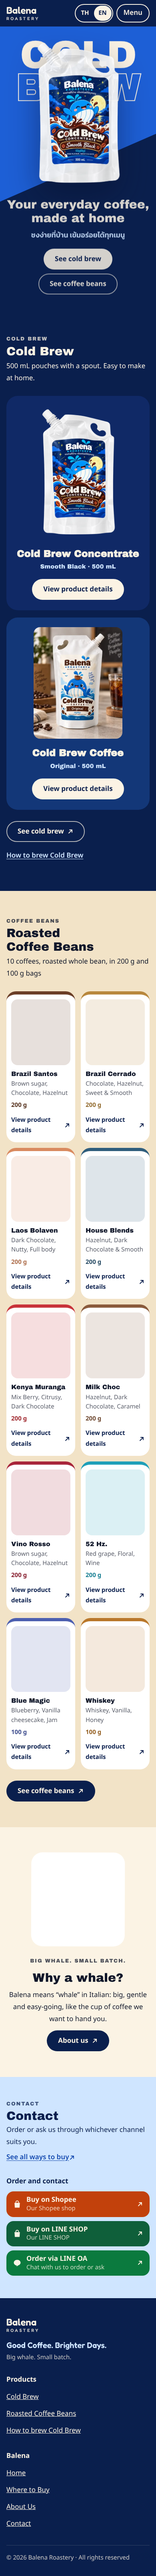
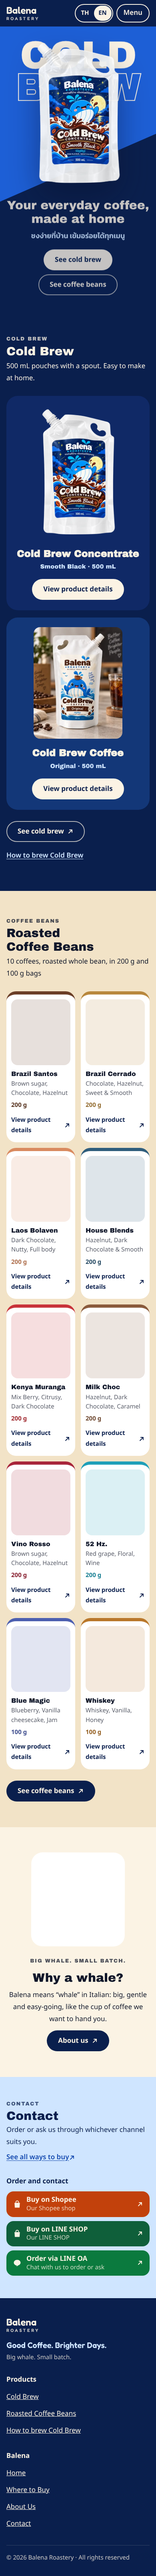
/shop: simple grouped link list, like a link-in-bio page
Following the owner's reference, /shop is now one narrow column:
- round mascot avatar, wordmark, title and the two intro lines;
- full-width rows (colour icon tile, centred name and short
  description, arrow) grouped under "สั่งซื้อและติดต่อ / Shop & chat"
  and "เดลิเวอรี / Delivery";
- a share (copy link) button in the corner.

Groups and order live in SHOP_HUB. Facebook and Lazada rows appear by
themselves once their URLs are set. The page's list is its #contact,
so the footer contact band isn't repeated there. Links, copy behaviour
and translations are unchanged; check:site follows the new markup.

Claude-Session: https://claude.ai/code/session_01NhFLDnAE3nR7iToKXbduQe

Changed region(s): [[0.2462, 0.0312, 0.8, 0.1247]]

diff --git a/src/shop/shop.css b/src/shop/shop.css
@@ -311,46 +311,48 @@ button, input, textarea { font: inherit; color: inherit; }
 .lang-en .h-th { font-family: var(--display-en); font-weight: 400; line-height: 1.12; }
 .lang-en .make__card h3 { font-family: var(--display-en); font-weight: 400; line-height: 1.2; }
 
-/* ---------- /shop: every channel on one page ---------- */
+/* ---------- /shop: every channel on one page (a link list, like a link-in-bio page) ---------- */
 
-.hub { background: linear-gradient(180deg, var(--ocean) 0, var(--ocean-deep) 260px, var(--navy) 560px, var(--navy) 100%); color: var(--cream); padding: 32px var(--gutter-r) 56px var(--gutter); }
-.hub__intro { max-width: 640px; margin: 0 auto; display: grid; justify-items: center; text-align: center; gap: 8px; }
-.hub__brand { display: grid; justify-items: center; gap: 10px; }
-.hub__mascot { width: 112px; height: 112px; border-radius: 28px; background: var(--white); padding: 6px; box-shadow: 0 16px 30px rgb(4 14 40 / .35); }
-.hub__title { font-family: var(--display-th); font-weight: 800; font-size: clamp(32px, 7vw, 52px); line-height: 1.3; padding-top: .08em; margin-top: 10px; text-wrap: balance; }
+.hub { background: linear-gradient(180deg, var(--ocean) 0, var(--ocean-deep) 220px, var(--navy) 520px); color: var(--cream); padding: 28px var(--gutter-r) 64px var(--gutter); }
+.hub__in { max-width: 560px; margin: 0 auto; }
+.hub__profile { position: relative; display: grid; justify-items: center; text-align: center; gap: 6px; padding-top: 8px; }
+.hub__avatar { width: 116px; height: 116px; border-radius: 50%; object-fit: cover; background: var(--white); border: 4px solid var(--cream); box-shadow: 0 14px 30px rgb(4 14 40 / .35); margin-bottom: 6px; }
+.hub__title { font-family: var(--display-th); font-weight: 800; font-size: clamp(30px, 7vw, 44px); line-height: 1.3; padding-top: .08em; margin-top: 8px; text-wrap: balance; }
 .lang-en .hub__title { font-family: var(--display-en); font-weight: 400; line-height: 1.1; }
-.hub__lead { font-weight: 700; font-size: 20px; line-height: 1.6; color: var(--spray); }
-.hub__text { max-width: 30em; }
+.hub__lead { font-weight: 700; font-size: 19px; line-height: 1.6; color: var(--spray); text-wrap: balance; }
+.hub__text { font-size: 17px; opacity: .9; text-wrap: balance; }
 
-.hub__cards { max-width: 980px; margin: 32px auto 0; display: grid; gap: 14px; }
-@media (min-width: 760px) {
-  .hub__cards { grid-template-columns: repeat(2, minmax(0, 1fr)); gap: 18px; }
-  .hub-card:last-child:nth-child(odd) { grid-column: 1 / -1; }
-}
-.hub-card__link { display: grid; grid-template-columns: auto minmax(0, 1fr); gap: 4px 16px; height: 100%; padding: 18px; border-radius: 24px; background: var(--cream); color: var(--ink); text-decoration: none; border: 2px solid transparent; box-shadow: 0 10px 24px rgb(4 14 40 / .25); transition: transform .18s ease, box-shadow .18s ease, border-color .18s ease; }
-.hub-card__link:hover { transform: translateY(-3px); box-shadow: 0 18px 36px rgb(4 14 40 / .35); border-color: var(--spray); }
-.hub-card__link:active { transform: translateY(0) scale(.99); }
-.hub-card__link:focus-visible { outline: 3px solid var(--spray); outline-offset: 4px; }
-@media (prefers-reduced-motion: reduce) { .hub-card__link, .hub-card__link:hover, .hub-card__link:active { transform: none; transition: none; } }
-.hub-card__icon { width: 52px; height: 52px; border-radius: 16px; display: grid; place-items: center; color: var(--white); background: var(--ocean); grid-row: span 2; }
-.hub-card.is-shopee .hub-card__icon { background: #c2410c; }
-.hub-card.is-lineShop .hub-card__icon, .hub-card.is-lineOA .hub-card__icon { background: #0b7a3e; }
-.hub-card.is-website .hub-card__icon { background: var(--navy); }
-.hub-card.is-grab .hub-card__icon { background: #00754a; }
-.hub-card__body { display: grid; gap: 2px; min-width: 0; }
-.hub-card__tag { font-size: 15px; font-weight: 700; color: var(--muted); }
-.hub-card__title { font-family: var(--display-th); font-weight: 800; font-size: 22px; line-height: 1.4; color: var(--navy); overflow-wrap: anywhere; }
-.hub-card__title[lang="en"] { font-family: var(--display-en); font-weight: 400; line-height: 1.25; }
-.hub-card__desc { line-height: 1.7; }
-.hub-card__note { font-size: 15px; color: var(--muted); }
-.hub-card__btn { grid-column: 1 / -1; justify-self: start; margin-top: 12px; display: inline-flex; align-items: center; gap: 8px; min-height: 48px; padding: 8px 20px; border-radius: 999px; background: var(--navy); color: var(--cream); font-weight: 700; }
-.hub-card.is-shopee .hub-card__btn { background: #c2410c; }
-.hub-card.is-lineShop .hub-card__btn, .hub-card.is-lineOA .hub-card__btn { background: #0b7a3e; }
-.hub-card.is-grab .hub-card__btn { background: #00754a; }
-
-.hub__share { max-width: 640px; margin: 36px auto 0; display: grid; justify-items: center; gap: 10px; text-align: center; }
-.hub__share .btn--navy { background: var(--cream); color: var(--navy); }
-.hub__status { min-height: 1.7em; font-weight: 600; }
+.hub__share { position: absolute; top: 0; right: 0; display: grid; justify-items: end; gap: 4px; max-width: 60%; }
+.hub__share-btn { width: 48px; height: 48px; border-radius: 16px; border: 0; background: rgb(251 243 228 / .16); color: var(--cream); display: grid; place-items: center; cursor: pointer; transition: background-color .15s ease; }
+.hub__share-btn:hover { background: rgb(251 243 228 / .28); }
+.hub__share-btn:focus-visible { outline: 3px solid var(--spray); outline-offset: 3px; }
+.hub__share-label { position: absolute; width: 1px; height: 1px; overflow: hidden; clip: rect(0 0 0 0); white-space: nowrap; }
+.hub__status { font-size: 15px; font-weight: 600; text-align: right; line-height: 1.5; }
+.hub__status:empty { display: none; }
 .hub__status.is-done { color: #9ff0c8; }
-.hub__status.is-failed { color: #ffd7a8; }
-.hub__url { color: var(--spray); word-break: break-all; user-select: all; }
+.hub__status.is-failed { color: #ffd7a8; background: var(--navy); padding: 6px 10px; border-radius: 12px; }
+.hub__url { color: var(--spray); font-size: 15px; word-break: break-all; user-select: all; background: var(--navy); padding: 4px 10px; border-radius: 10px; min-height: 44px; display: inline-flex; align-items: center; }
+
+.hub__groups { display: grid; gap: 28px; margin-top: 30px; scroll-margin-top: 84px; }
+.hub__group-h { text-align: center; font-family: var(--display-th); font-weight: 800; font-size: 20px; line-height: 1.4; color: var(--cream); margin-bottom: 12px; }
+.lang-en .hub__group-h { font-family: var(--display-en); font-weight: 400; }
+.hub__rows { display: grid; gap: 12px; }
+.hub-row__link { display: grid; grid-template-columns: 56px minmax(0, 1fr) 40px; align-items: center; gap: 14px; min-height: 76px; padding: 10px 12px 10px 10px; border-radius: 20px; background: var(--cream); color: var(--ink); text-decoration: none; border: 2px solid transparent; box-shadow: 0 8px 20px rgb(4 14 40 / .22); transition: transform .16s ease, box-shadow .16s ease, border-color .16s ease; }
+.hub-row__link:hover { transform: translateY(-2px); box-shadow: 0 14px 30px rgb(4 14 40 / .32); border-color: var(--spray); }
+.hub-row__link:active { transform: scale(.985); }
+.hub-row__link:focus-visible { outline: 3px solid var(--spray); outline-offset: 3px; }
+@media (prefers-reduced-motion: reduce) { .hub-row__link, .hub-row__link:hover, .hub-row__link:active { transform: none; transition: none; } }
+.hub-row__icon { width: 56px; height: 56px; border-radius: 14px; display: grid; place-items: center; color: var(--white); background: var(--ocean); }
+.hub-row.is-shopee .hub-row__icon { background: #c2410c; }
+.hub-row.is-lazada .hub-row__icon { background: #1e2a78; }
+.hub-row.is-lineShop .hub-row__icon { background: #0f5f3a; }
+.hub-row.is-lineOA .hub-row__icon { background: #0b7a3e; }
+.hub-row.is-facebook .hub-row__icon { background: #1d4fb8; }
+.hub-row.is-website .hub-row__icon { background: var(--navy); }
+.hub-row.is-grab .hub-row__icon { background: #00754a; }
+.hub-row__text { display: grid; justify-items: center; text-align: center; min-width: 0; }
+.hub-row__title { font-family: var(--display-th); font-weight: 800; font-size: 19px; line-height: 1.4; color: var(--navy); overflow-wrap: anywhere; }
+.hub-row__title[lang="en"] { font-family: var(--display-en); font-weight: 400; line-height: 1.3; }
+.hub-row__desc { font-size: 15px; line-height: 1.55; color: #3f4352; }
+.hub-row__note { font-size: 15px; line-height: 1.5; color: var(--muted); }
+.hub-row__go { width: 40px; height: 40px; border-radius: 50%; display: grid; place-items: center; color: var(--navy); background: rgb(10 31 77 / .08); }

diff --git a/src/shop/ShopPage.tsx b/src/shop/ShopPage.tsx
@@ -7,10 +7,10 @@ import { Arrow, Shell, Wordmark, useText } from "./ui";
 /** The address the copy button shares: always production, never a preview URL. */
 export const SHOP_URL = `${site.url}/shop`;
 
-type Card = (typeof SHOP_HUB)[number];
-const TAG: Record<Card, "shop" | "chat" | "site" | "delivery"> = {
-  shopee: "shop", lineShop: "shop", lineOA: "chat", website: "site", grab: "delivery",
-  facebook: "chat", lazada: "shop",
+type Item = (typeof SHOP_HUB)[number]["items"][number];
+type Kind = "shop" | "chat" | "site" | "delivery";
+const KIND: Record<Item, Kind> = {
+  shopee: "shop", lineShop: "shop", lazada: "shop", lineOA: "chat", facebook: "chat", website: "site", grab: "delivery",
 };
 
 /** /shop: every shopping and contact channel on one page, for social posts and QR codes. */
@@ -25,50 +25,58 @@ export function ShopPage() {
 function ShopBody() {
   const t = useText();
   const h = t.hub;
-  // Only channels with a real link get a card; the website card is this site's home page.
-  const cards = SHOP_HUB.flatMap((id): { id: Card; href: string; external: boolean }[] => {
-    if (id === "website") return [{ id, href: "/", external: false }];
-    const href = storeLink(id);
-    return href ? [{ id, href, external: true }] : [];
-  });
+  // Only channels with a real link get a row; the website row is this site's home page.
+  const groups = SHOP_HUB.map(({ group, items }) => ({
+    group,
+    rows: items.flatMap((id): { id: Item; href: string; external: boolean }[] => {
+      if (id === "website") return [{ id, href: "/", external: false }];
+      const href = storeLink(id);
+      return href ? [{ id, href, external: true }] : [];
+    }),
+  })).filter((g) => g.rows.length > 0);
 
   return (
     <div className="hub">
-      <section className="hub__intro" aria-labelledby="hub-title">
-        <div className="hub__brand">
-          <img className="hub__mascot" src="/images/balena-whale-sticker.webp" width={1254} height={1254}
+      <div className="hub__in">
+        <section className="hub__profile" aria-labelledby="hub-title">
+          <CopyLink />
+          <img className="hub__avatar" src="/images/balena-whale-sticker.webp" width={1254} height={1254}
             alt={h.mascotAlt} decoding="async" fetchPriority="high" />
           <Wordmark light />
+          <h1 id="hub-title" className="hub__title">{h.title}</h1>
+          <p className="hub__lead">{h.lead}</p>
+          <p className="hub__text">{h.text}</p>
+        </section>
+
+        <div id="contact" className="hub__groups">
+          {groups.map((g) => (
+            <section key={g.group} className="hub__group" aria-labelledby={`hub-${g.group}`}>
+              <h2 id={`hub-${g.group}`} className="hub__group-h">{h.groups[g.group]}</h2>
+              <ul className="hub__rows">
+                {g.rows.map((r) => {
+                  const row = h.cards[r.id];
+                  const note = r.id === "lineOA" || r.id === "lineShop" ? h.opensIn.line : r.id === "grab" ? h.opensIn.grab : null;
+                  return (
+                    <li key={r.id} className={`hub-row is-${r.id}`}>
+                      <a className="hub-row__link" href={r.href}
+                        {...(r.external ? { target: "_blank", rel: "noopener noreferrer" } : {})}
+                        aria-label={`${row.button}: ${row.title}${r.external ? ` (${t.common.newTab})` : ""}`}>
+                        <span className="hub-row__icon" aria-hidden="true"><HubIcon kind={KIND[r.id]} /></span>
+                        <span className="hub-row__text">
+                          <span className="hub-row__title" lang={/[\u0E00-\u0E7F]/.test(row.title) ? "th" : "en"}>{row.title}</span>
+                          <span className="hub-row__desc">{row.description}</span>
+                          {note && <span className="hub-row__note">{note}</span>}
+                        </span>
+                        <span className="hub-row__go" aria-hidden="true"><Arrow /></span>
+                      </a>
+                    </li>
+                  );
+                })}
+              </ul>
+            </section>
+          ))}
         </div>
-        <h1 id="hub-title" className="hub__title">{h.title}</h1>
-        <p className="hub__lead">{h.lead}</p>
-        <p className="hub__text">{h.text}</p>
-      </section>
-
-      <ul className="hub__cards" aria-label={h.listLabel}>
-        {cards.map((c) => {
-          const card = h.cards[c.id as keyof typeof h.cards];
-          const opens = c.id === "lineOA" || c.id === "lineShop" ? h.opensIn.line : c.id === "grab" ? h.opensIn.grab : null;
-          return (
-            <li key={c.id} className={`hub-card is-${c.id}`}>
-              <a className="hub-card__link" href={c.href}
-                {...(c.external ? { target: "_blank", rel: "noopener noreferrer" } : {})}
-                aria-label={`${card.button}: ${card.title}${c.external ? ` (${t.common.newTab})` : ""}`}>
-                <span className="hub-card__icon" aria-hidden="true"><HubIcon kind={TAG[c.id]} /></span>
-                <span className="hub-card__body">
-                  <span className="hub-card__tag">{h.tags[TAG[c.id]]}</span>
-                  <span className="hub-card__title" lang={/[\u0E00-\u0E7F]/.test(card.title) ? "th" : "en"}>{card.title}</span>
-                  <span className="hub-card__desc">{card.description}</span>
-                  {opens && <span className="hub-card__note">{opens}</span>}
-                </span>
-                <span className="hub-card__btn">{card.button} <Arrow /></span>
-              </a>
-            </li>
-          );
-        })}
-      </ul>
-
-      <CopyLink />
+      </div>
     </div>
   );
 }
@@ -102,16 +110,16 @@ function CopyLink() {
   };
 
   return (
-    <section className="hub__share" aria-label={hub.copy.button}>
-      <p className="hub__share-hint">{hub.copy.hint}</p>
-      <button type="button" className="btn btn--navy" onClick={copy}>
-        <CopyIcon /> {hub.copy.button}
+    <div className="hub__share">
+      <button type="button" className="hub__share-btn" onClick={copy} aria-label={hub.copy.button} title={hub.copy.button}>
+        <CopyIcon />
+        <span className="hub__share-label">{hub.copy.button}</span>
       </button>
       <p className={`hub__status is-${state}`} role="status" aria-live="polite">
         {state === "done" ? hub.copy.done : state === "failed" ? hub.copy.failed : ""}
       </p>
       {state === "failed" && <a className="hub__url" href={SHOP_URL} lang="en">{SHOP_URL}</a>}
-    </section>
+    </div>
   );
 }
 

diff --git a/src/i18n/shop.ts b/src/i18n/shop.ts
@@ -149,7 +149,6 @@ const th = {
     title: "เลือกช่องทางสั่งซื้อ",
     lead: "กาแฟแก้วโปรด สั่งได้ในช่องทางที่คุณสะดวก",
     text: "เลือกซื้อโคลด์บรูว์และเมล็ดกาแฟ หรือทักมาคุยกับเราได้เลย",
-    listLabel: "ช่องทางสั่งซื้อและติดต่อ",
     mascotAlt: "วาฬ Balena มีถ้วยกาแฟบนหัว",
     cards: {
       shopee: { title: "Shopee", description: "เลือกสินค้าและสั่งซื้อผ่าน Shopee", button: "ไปที่ร้าน Shopee" },
@@ -157,14 +156,15 @@ const th = {
       lineOA: { title: "LINE Official Account", description: "สอบถามสินค้า ขอคำแนะนำ หรือทักมาสั่งซื้อ", button: "แชทกับเราทาง LINE" },
       website: { title: "เว็บไซต์ Balena", description: "รู้จัก Balena และดูรายละเอียดสินค้าของเรา", button: "เยี่ยมชมเว็บไซต์" },
       grab: { title: "Grab Delivery — สาขาบางใหญ่", description: "ตรวจสอบพื้นที่จัดส่ง เมนู และเวลาเปิดให้บริการในแอป Grab", button: "เปิดร้านบน Grab" },
+      lazada: { title: "Lazada", description: "เลือกสินค้าและสั่งซื้อผ่าน Lazada", button: "ไปที่ร้าน Lazada" },
+      facebook: { title: "Facebook", description: "ทักแชทมาสอบถามหรือสั่งซื้อทาง Facebook", button: "แชทกับเราทาง Facebook" },
     },
-    tags: { shop: "ร้านค้า", chat: "แชท", site: "เว็บไซต์", delivery: "เดลิเวอรี" },
+    groups: { online: "สั่งซื้อและติดต่อ", delivery: "เดลิเวอรี" },
     opensIn: { line: "เปิดในแอป LINE", grab: "เปิดในแอป Grab" },
     copy: {
       button: "คัดลอกลิงก์หน้านี้",
       done: "คัดลอกลิงก์แล้ว",
       failed: "คัดลอกอัตโนมัติไม่ได้ กดค้างที่ลิงก์ด้านล่างเพื่อคัดลอก",
-      hint: "แชร์หน้านี้ให้เพื่อนได้เลย",
     },
   },
   notFound: {
@@ -321,7 +321,6 @@ const en: ShopText = {
     title: "Shop Balena",
     lead: "Your favourite coffee, ordered your way.",
     text: "Shop cold brew and roasted coffee beans, or chat with us.",
-    listLabel: "Shopping and contact channels",
     mascotAlt: "The Balena whale with a coffee cup on its head",
     cards: {
       shopee: { title: "Shopee", description: "Browse and order on Shopee.", button: "Shop on Shopee" },
@@ -329,14 +328,15 @@ const en: ShopText = {
       lineOA: { title: "LINE Official Account", description: "Ask about products, get recommendations or message us to order.", button: "Chat on LINE" },
       website: { title: "Balena Website", description: "Discover Balena and explore our products.", button: "Visit Our Website" },
       grab: { title: "Grab Delivery — Bang Yai", description: "Check delivery coverage, the menu and opening hours in the Grab app.", button: "Open in Grab" },
+      lazada: { title: "Lazada", description: "Browse and order on Lazada.", button: "Shop on Lazada" },
+      facebook: { title: "Facebook", description: "Message us on Facebook to ask or order.", button: "Chat on Facebook" },
     },
-    tags: { shop: "Shop", chat: "Chat", site: "Website", delivery: "Delivery" },
+    groups: { online: "Shop & chat", delivery: "Delivery" },
     opensIn: { line: "Opens in the LINE app", grab: "Opens in the Grab app" },
     copy: {
       button: "Copy Page Link",
       done: "Link copied",
       failed: "Couldn't copy automatically. Press and hold the link below to copy it.",
-      hint: "Share this page with a friend",
     },
   },
   notFound: {

diff --git a/src/shop/ui.tsx b/src/shop/ui.tsx
@@ -188,11 +188,12 @@ function Contact() {
   );
 }
 
-export function Footer() {
+/** `contact={false}` on /shop, whose own channel list is the #contact section. */
+export function Footer({ contact = true }: { contact?: boolean }) {
   const t = useText();
   return (
     <>
-      <Contact />
+      {contact && <Contact />}
       <footer className="ftr">
         <div className="ftr__in">
           <div className="ftr__brand">
@@ -221,6 +222,7 @@ export function Footer() {
 }
 
 export function Shell({ page, children, tone = "dark" }: { page: Page; children: ReactNode; tone?: "dark" | "light" }) {
+  const contact = page !== "shop";
   const t = useText();
   useDocumentLang(t.lang, t.meta[page]);
   return (
@@ -228,7 +230,7 @@ export function Shell({ page, children, tone = "dark" }: { page: Page; children:
       <a className="skip" href="#main">{t.common.skip}</a>
       <Header page={page} tone={tone} />
       <main id="main">{children}</main>
-      <Footer />
+      <Footer contact={contact} />
     </div>
   );
 }

diff --git a/src/config/purchase-links.ts b/src/config/purchase-links.ts
@@ -26,8 +26,14 @@ export const storeLinks: Record<Channel, string> = {
 /** Channels that sell the products in the catalogue (Grab is a branch menu, so it isn't one). */
 export const PRODUCT_CHANNELS: Channel[] = ["shopee", "lazada", "lineShop", "lineOA", "facebook"];
 
-/** Cards on /shop, in order. "website" is this site's home page (internal link). */
-export const SHOP_HUB: (Channel | "website")[] = ["shopee", "lineShop", "lineOA", "website", "grab"];
+/**
+ * Rows on /shop, grouped under headings, in order. "website" is this site's home page.
+ * A channel with no link is left out, so Facebook and Lazada appear once their URLs are set.
+ */
+export const SHOP_HUB: { group: "online" | "delivery"; items: (Channel | "website")[] }[] = [
+  { group: "online", items: ["shopee", "lineShop", "lazada", "lineOA", "facebook", "website"] },
+  { group: "delivery", items: ["grab"] },
+];
 
 export const productLinks: Partial<Record<string, Partial<Record<Channel, string>>>> = {
   // "brazil-santos": {

diff --git a/CLAUDE.md b/CLAUDE.md
@@ -9,7 +9,7 @@ browser. Every public page is in Thai and English (TH / EN switch in the header)
 |---|---|---|
 | `/` | Home: cold brew hero, cold brew, coffee beans, brand intro, contact | Customers |
 | `/products` | Catalogue: every product on one page, cold brew (`#cold-brew`) then beans (`#coffee-beans`); `?p=<slug>` selects a product | Customers |
-| `/shop` | เลือกช่องทางสั่งซื้อ / Shop Balena: every shopping and contact channel as large cards, plus "copy page link". Shared on social media and by QR code. | Customers |
+| `/shop` | เลือกช่องทางสั่งซื้อ / Shop Balena: a link-in-bio style page, every shopping and contact channel as one grouped list of rows, plus a share (copy link) button. Shared on social media and by QR code. | Customers |
 | `/about` | รู้จักเรา: brand story, signature drinks | Customers |
 | `/cold-brew-recipes/` | How to make four drinks with the concentrate, with Remotion animations. Opened from the "วิธีชง Cold Brew" button in the LINE OA rich menu. | Customers |
 | `/cost-calculator/` | Cost, yield, hidden costs and profit per pouch. `noindex`, not linked from anywhere. | Owner only |

diff --git a/docs/STOREFRONT.md b/docs/STOREFRONT.md
@@ -69,7 +69,7 @@ All links live in **`src/config/purchase-links.ts`**:
   `PRODUCT_CHANNELS` (all but Grab) also fill every product without its own link.
   Set now: Shopee, LINE SHOP, LINE OA and Grab Delivery (Bang Yai). Facebook and Lazada are
   still empty, so they show nowhere.
-- `SHOP_HUB`: the order of the `/shop` cards (`website` is this site's home page).
+- `SHOP_HUB`: the groups and order of the `/shop` rows (`website` is this site's home page). Facebook and Lazada rows appear by themselves once their URLs are set.
 - `productLinks`: a link to one product's own listing, by slug. It wins over the store link
   for that channel.
 
